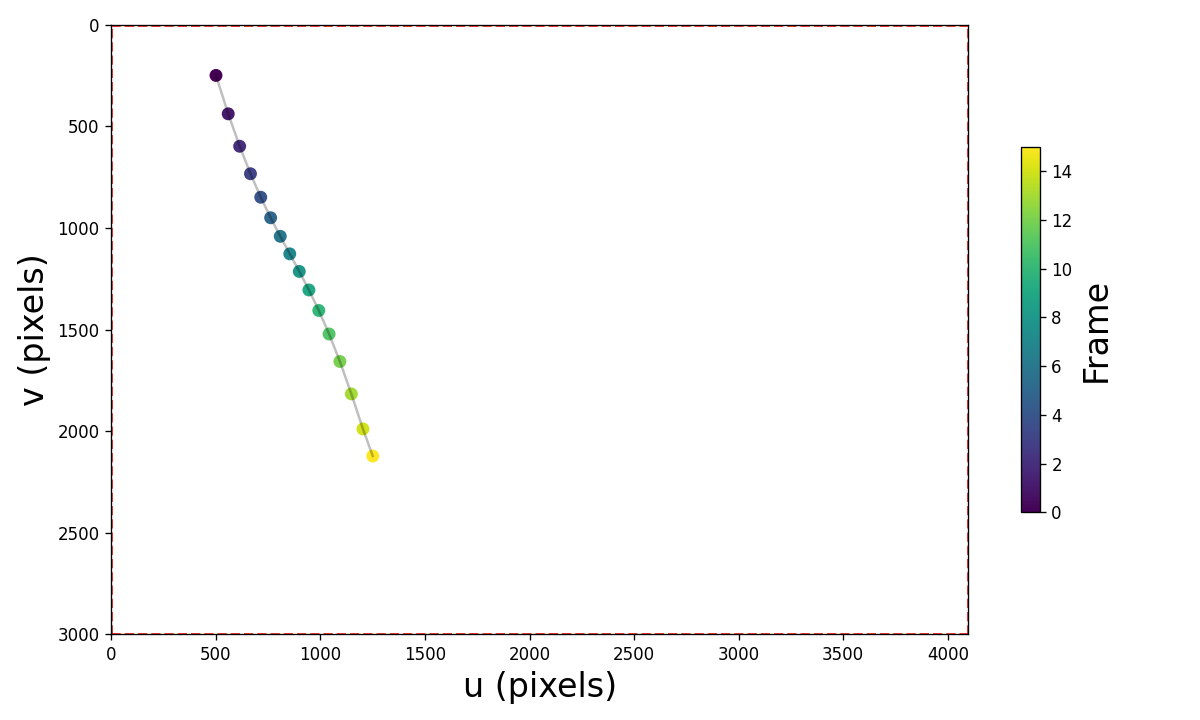
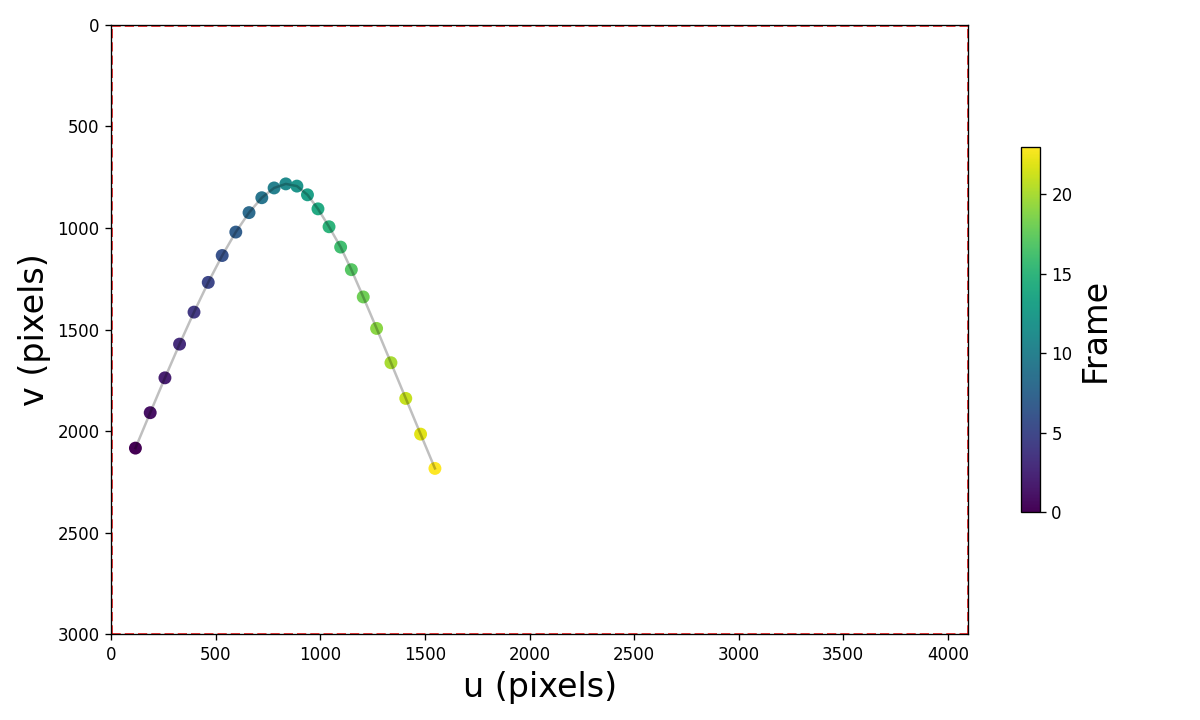
Full working pipeline with 16cm accuracy

diff --git a/Video_Camera_Processing/image_video_processing_scripts/png_folder_to_mp4.py b/Video_Camera_Processing/image_video_processing_scripts/png_folder_to_mp4.py
@@ -9,13 +9,13 @@ import tempfile
 from typing import Optional
 
 camera_num = 0
-first_frame = 405
-last_frame = 442
+first_frame = 403
+last_frame = 443
 #person = "Yash"
 #FRAMES_FOLDER = f"Video_Camera_Processing/throws/{person}_throw_{camera_num}/png"
 #OUTPUT_MP4 = f"Video_Camera_Processing/throws/{person}_throw_{camera_num}/mp4/{person}_throw_{camera_num}.mp4"
-FRAMES_FOLDER = "Video_Camera_Processing/throws/third_throw0/png"
-OUTPUT_MP4 = "Video_Camera_Processing/throws/third_throw0/third_throw0.mp4"
+FRAMES_FOLDER = "Video_Camera_Processing/throws/third_throw1/png"
+OUTPUT_MP4 = "Video_Camera_Processing/throws/third_throw1/third_throw1.mp4"
 FPS = 19.0 #CHANGE AS NEEDED
 PATTERN = "*.png"
 CRF = 23

diff --git a/video_to_position.py b/video_to_position.py
@@ -470,8 +470,8 @@ def main():
 
     start_time = time.perf_counter()
     video_paths = [
-        "Video_Camera_Processing/throws/another_throw1.mp4",
-        "Video_Camera_Processing/throws/another_throw0.mp4",
+        "Video_Camera_Processing/throws/third_throw1.mp4",
+        "Video_Camera_Processing/throws/third_throw0.mp4",
     ]
     P_list_path = "Video_Camera_Processing/P_list.npy"
     dt = 1.0 / 19.0

diff --git a/Video_Camera_Processing/image_video_processing_scripts/raw_to_png.py b/Video_Camera_Processing/image_video_processing_scripts/raw_to_png.py
@@ -8,7 +8,7 @@ import cv2
 import numpy as np
 
 #INPUT_FOLDER = "Video_Camera_Processing/throws/throw0"
-INPUT_FOLDER = "Video_Camera_Processing/throws/third_throw0"
+INPUT_FOLDER = "Video_Camera_Processing/throws/third_throw1"
 OUTPUT_FOLDER = None
 WIDTH = 3840
 HEIGHT = 2160

diff --git a/Video_Camera_Processing/image_video_processing_scripts/zsh_script_ignore.py b/Video_Camera_Processing/image_video_processing_scripts/zsh_script_ignore.py
@@ -33,5 +33,5 @@ def organize_by_extension(directory):
     print("Files organized successfully")
 
 if __name__ == "__main__":
-    path = "Video_Camera_Processing/throws/third_throw0"
+    path = "Video_Camera_Processing/throws/third_throw1"
     organize_by_extension(path)
